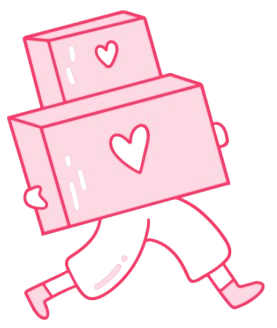
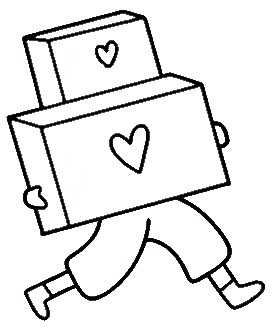
cccs

diff --git a/components/ProductCard2.jsx b/components/ProductCard2.jsx
@@ -1,0 +1,74 @@
+'use client';
+
+import React from 'react';
+import Image from 'next/image';
+import { useAppContext } from '@/context/AppContext';
+import { FiHeart } from 'react-icons/fi';
+
+const ProductCard = ({ product }) => {
+  const { router, wishlist, addToWishlist, removeFromWishlist } = useAppContext();
+
+  if (!product) return null;
+
+  const isFavorited = wishlist.some((item) => item.product_id === product.id);
+
+  const handleFavoriteClick = (e) => {
+    e.stopPropagation();
+    if (isFavorited) {
+      removeFromWishlist(product.id);
+    } else {
+      addToWishlist(product.id);
+    }
+  };
+
+  const getValidImage = (imageUrls) => {
+    if (
+      Array.isArray(imageUrls) &&
+      imageUrls.length > 0 &&
+      typeof imageUrls[0] === 'string' &&
+      imageUrls[0].trim() !== ''
+    ) {
+      return imageUrls[0];
+    }
+    return '/assets/placeholder.jpg';
+  };
+
+  return (
+    <div
+      onClick={() => router.push('/product/' + product.id)}
+      className="flex flex-col items-start w-full max-w-[260px] cursor-pointer group"
+    >
+      {/* Ürün görseli */}
+      <div className="relative rounded-none w-full aspect-[4/4] overflow-hidden bg-gray-100">
+        <Image
+          src={getValidImage(product.image_urls)}
+          alt={product.name || 'Product image'}
+          className="group-hover:scale-105 transition-transform duration-300 object-cover w-full h-full"
+          fill
+          sizes="(max-width: 640px) 80vw, (max-width: 1024px) 40vw, 25vw"
+        />
+
+        {/* Favori butonu */}
+        <button
+          onClick={handleFavoriteClick}
+          className="absolute top-2 right-2 bg-white p-2 rounded-full shadow-md transition-all z-10 hover:scale-110"
+        >
+          <FiHeart
+            className={`w-4 h-4 ${
+              isFavorited ? 'fill-red-500 text-red-500' : 'text-gray-600'
+            }`}
+          />
+        </button>
+      </div>
+
+      {/* Ürün ismi */}
+      <div className="w-full mt-2 text-left">
+        <h3 className="text-sm md:text-base font-medium text-gray-800 line-clamp-2">
+          {product.name || 'Unnamed Product'}
+        </h3>
+      </div>
+    </div>
+  );
+};
+
+export default ProductCard;

diff --git a/app/all-products/page.jsx b/app/all-products/page.jsx
@@ -1,7 +1,7 @@
-'use client';
+"use client";
 
 import { useState, useEffect, useMemo } from "react";
-import ProductCard from "@/components/ProductCard";
+import ProductCard2 from "@/components/ProductCard2";
 import Footer from "@/components/Footer";
 import { useAppContext } from "@/context/AppContext";
 import { supabase } from "@/lib/supabaseClient";
@@ -205,7 +205,7 @@ const AllProducts = () => {
           {filteredProducts.length > 0 ? (
             <div className="grid grid-cols-2 md:grid-cols-3 lg:grid-cols-4 xl:grid-cols-5 gap-6 pb-14">
               {filteredProducts.map((product) => (
-                <ProductCard key={product.id} product={product} />
+                <ProductCard2 key={product.id} product={product} />
               ))}
             </div>
           ) : (
